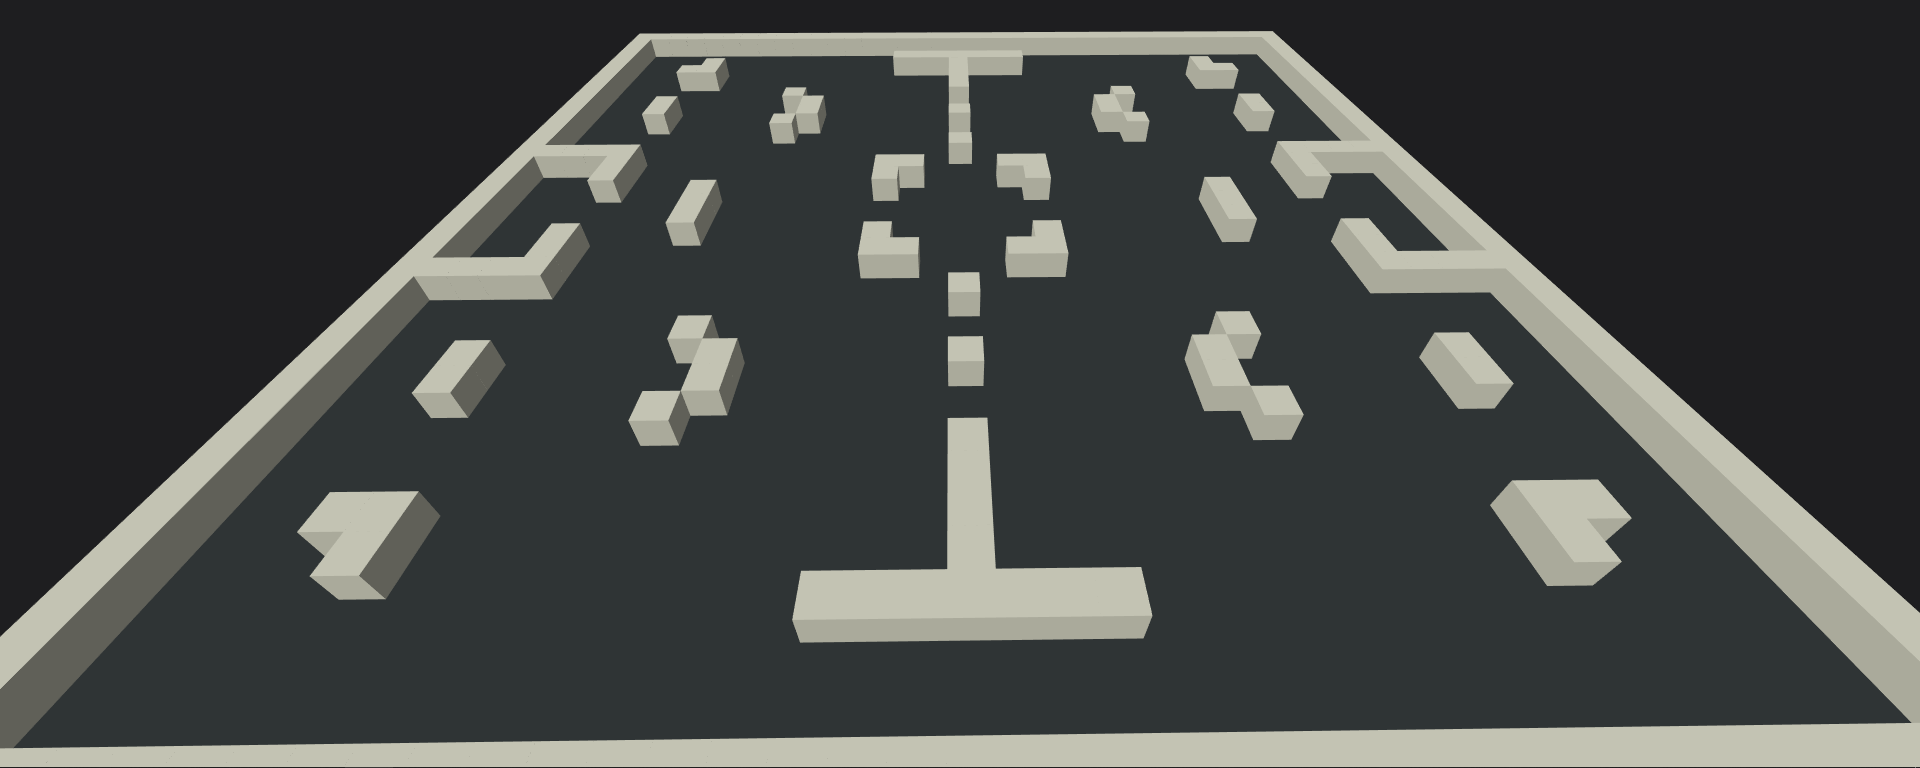
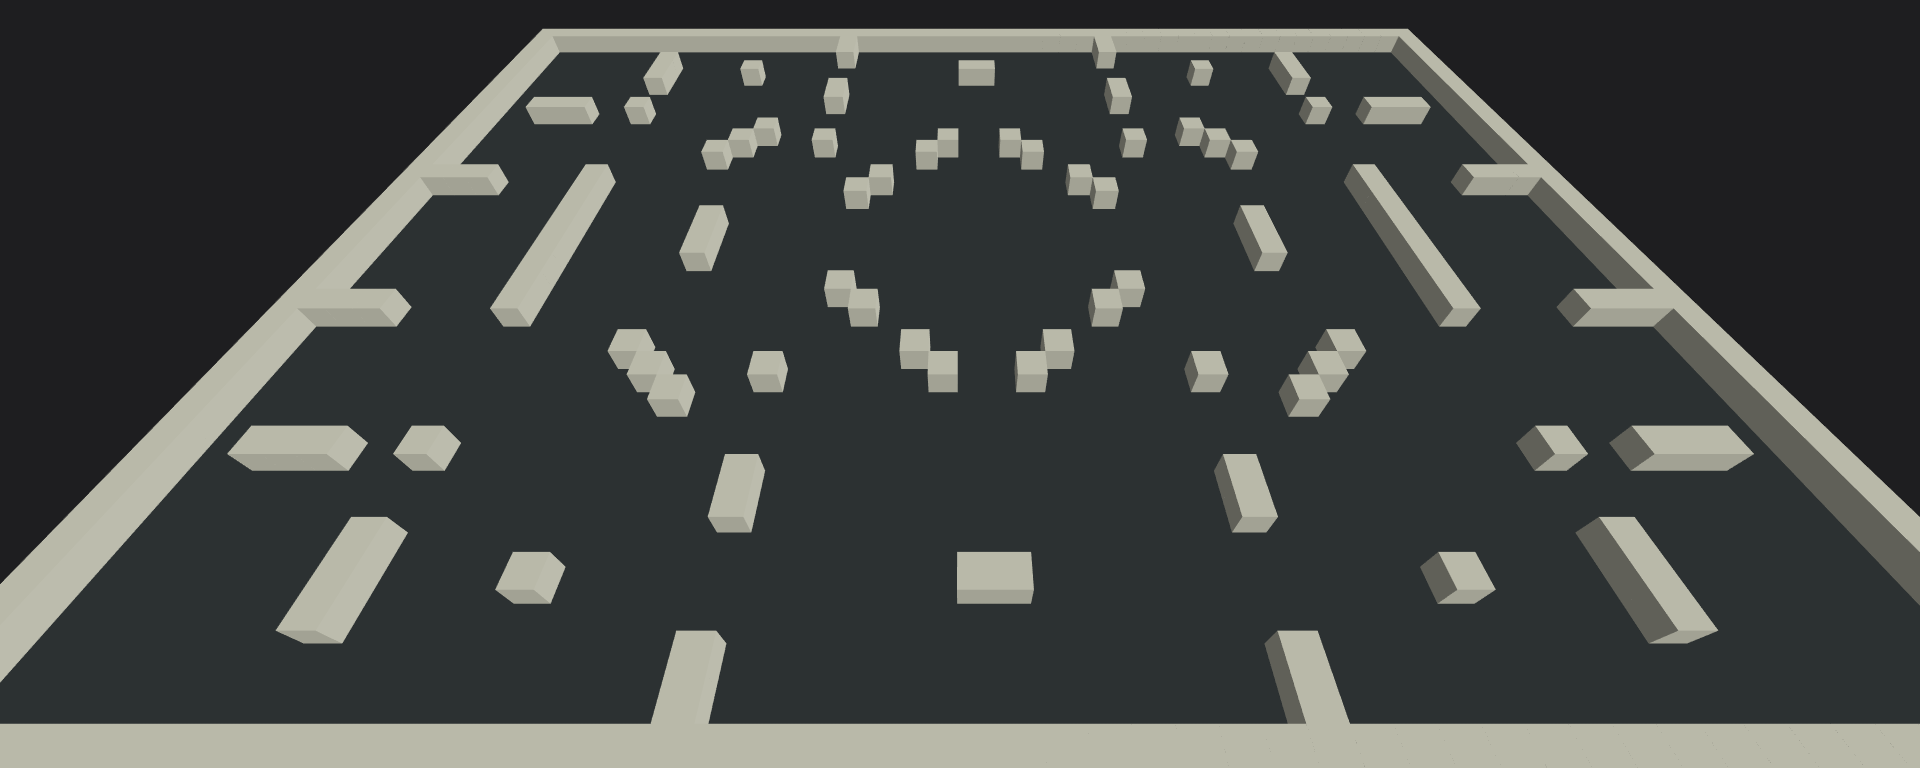
voting arena images, player list sync fix

diff --git a/src/gui/PlayerList.ts b/src/gui/PlayerList.ts
@@ -29,6 +29,7 @@ export default class PlayerList extends ChildComponent {
         EventHandler.addListener(this, EventHandler.Event.CONNECTED_PLAYER_ADDITION, this.onPlayerAddition);
         EventHandler.addListener(this, EventHandler.Event.PLAYER_REMOVAL, this.onPlayerRemoval);
         EventHandler.addListener(this, EventHandler.Event.CONNECTED_PLAYER_REMOVAL, this.onPlayerRemoval);
+        EventHandler.addListener(this, EventHandler.Event.GAME_STATUS_RUNNING, this.onRunningStatus);
 
         EventHandler.addListener(this, EventHandler.Event.STATISTICS_UPDATE, this.onStatisticUpdate);
 
@@ -37,6 +38,7 @@ export default class PlayerList extends ChildComponent {
         EventHandler.addListener(this, EventHandler.Event.DOM_BLUR, this.onBlur);
         EventHandler.addListener(this, EventHandler.Event.OPTIONS_UPDATE, this.onOptionsUpdate);
         EventHandler.addListener(this, EventHandler.Event.GAMEMENU_OPEN, this.hidePlayerList);
+
         this.updateTitle();
     }
 
@@ -47,6 +49,7 @@ export default class PlayerList extends ChildComponent {
         EventHandler.removeListener(this, EventHandler.Event.CONNECTED_PLAYER_ADDITION, this.onPlayerAddition);
         EventHandler.removeListener(this, EventHandler.Event.PLAYER_REMOVAL, this.onPlayerRemoval);
         EventHandler.removeListener(this, EventHandler.Event.CONNECTED_PLAYER_REMOVAL, this.onPlayerRemoval);
+        EventHandler.removeListener(this, EventHandler.Event.GAME_STATUS_RUNNING, this.onRunningStatus);
 
         EventHandler.removeListener(this, EventHandler.Event.STATISTICS_UPDATE, this.onStatisticUpdate);
 
@@ -86,6 +89,16 @@ export default class PlayerList extends ChildComponent {
     private onPlayerRemoval(event: any) {
         const elt = DomHandler.getElement(".player-list-" + event.id, this.parentElt);
         DOMMutationHandler.addStyle(elt, "color", "#ffffff");
+    }
+
+    private onRunningStatus() {
+        const statTitles = ["points", "kills", "deaths"];
+        for (const title of statTitles) {
+            const elts = Array.from(DomHandler.getElements(".player-list-entry-" + title, this.parentElt));
+            for (const elt of elts) {
+                elt.textContent = "0";
+            }
+        }
     }
 
     private onKeyDown(event: KeyboardEvent) {

diff --git a/src/connection_menu/VoteHandler.ts b/src/connection_menu/VoteHandler.ts
@@ -67,7 +67,7 @@ export default class VoteHandler extends ChildComponent {
         const voteCount = option.voteCount;
 
         const parentElt = DomHandler.createElement("div", ["voting-option"], undefined, VoteHandler.VOTING_OPTION_PREFIX + index);
-        parentElt.style.backgroundImage = "url(./res/arena_images/Original.png)";
+        parentElt.style.backgroundImage = "url(\"./res/arena_images/" + title + ".png\")";
 
         const overlayElt = DomHandler.createElement("div", ["voting-option-overlay"]);
 
